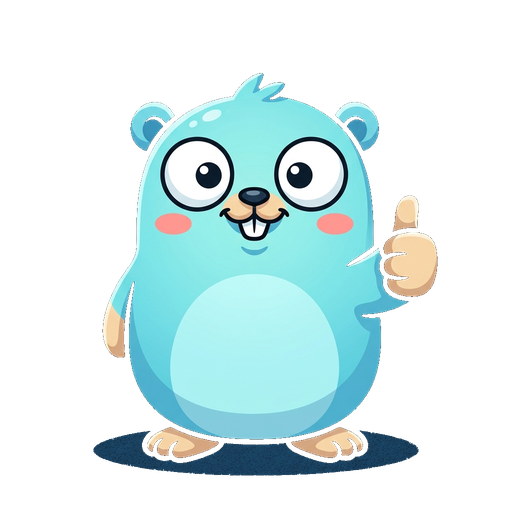
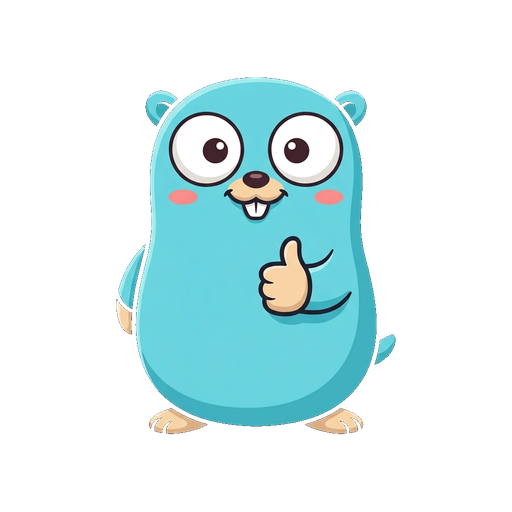
Regenerate all 6 gopher mood images with proper colors and feet
Previous gophers were washed out with missing body parts from
aggressive background removal. Fresh generation + flood fill.

diff --git a/src/components/Gopher.tsx b/src/components/Gopher.tsx
@@ -1,7 +1,7 @@
 import type { GopherMood } from "../data/types";
 import { asset } from "../utils/basePath";
 
-const v = "?v=2";
+const v = "?v=3";
 const MOOD_IMAGES: Record<GopherMood, string> = {
   idle: asset("gophers/idle.png") + v,
   thinking: asset("gophers/thinking.png") + v,
